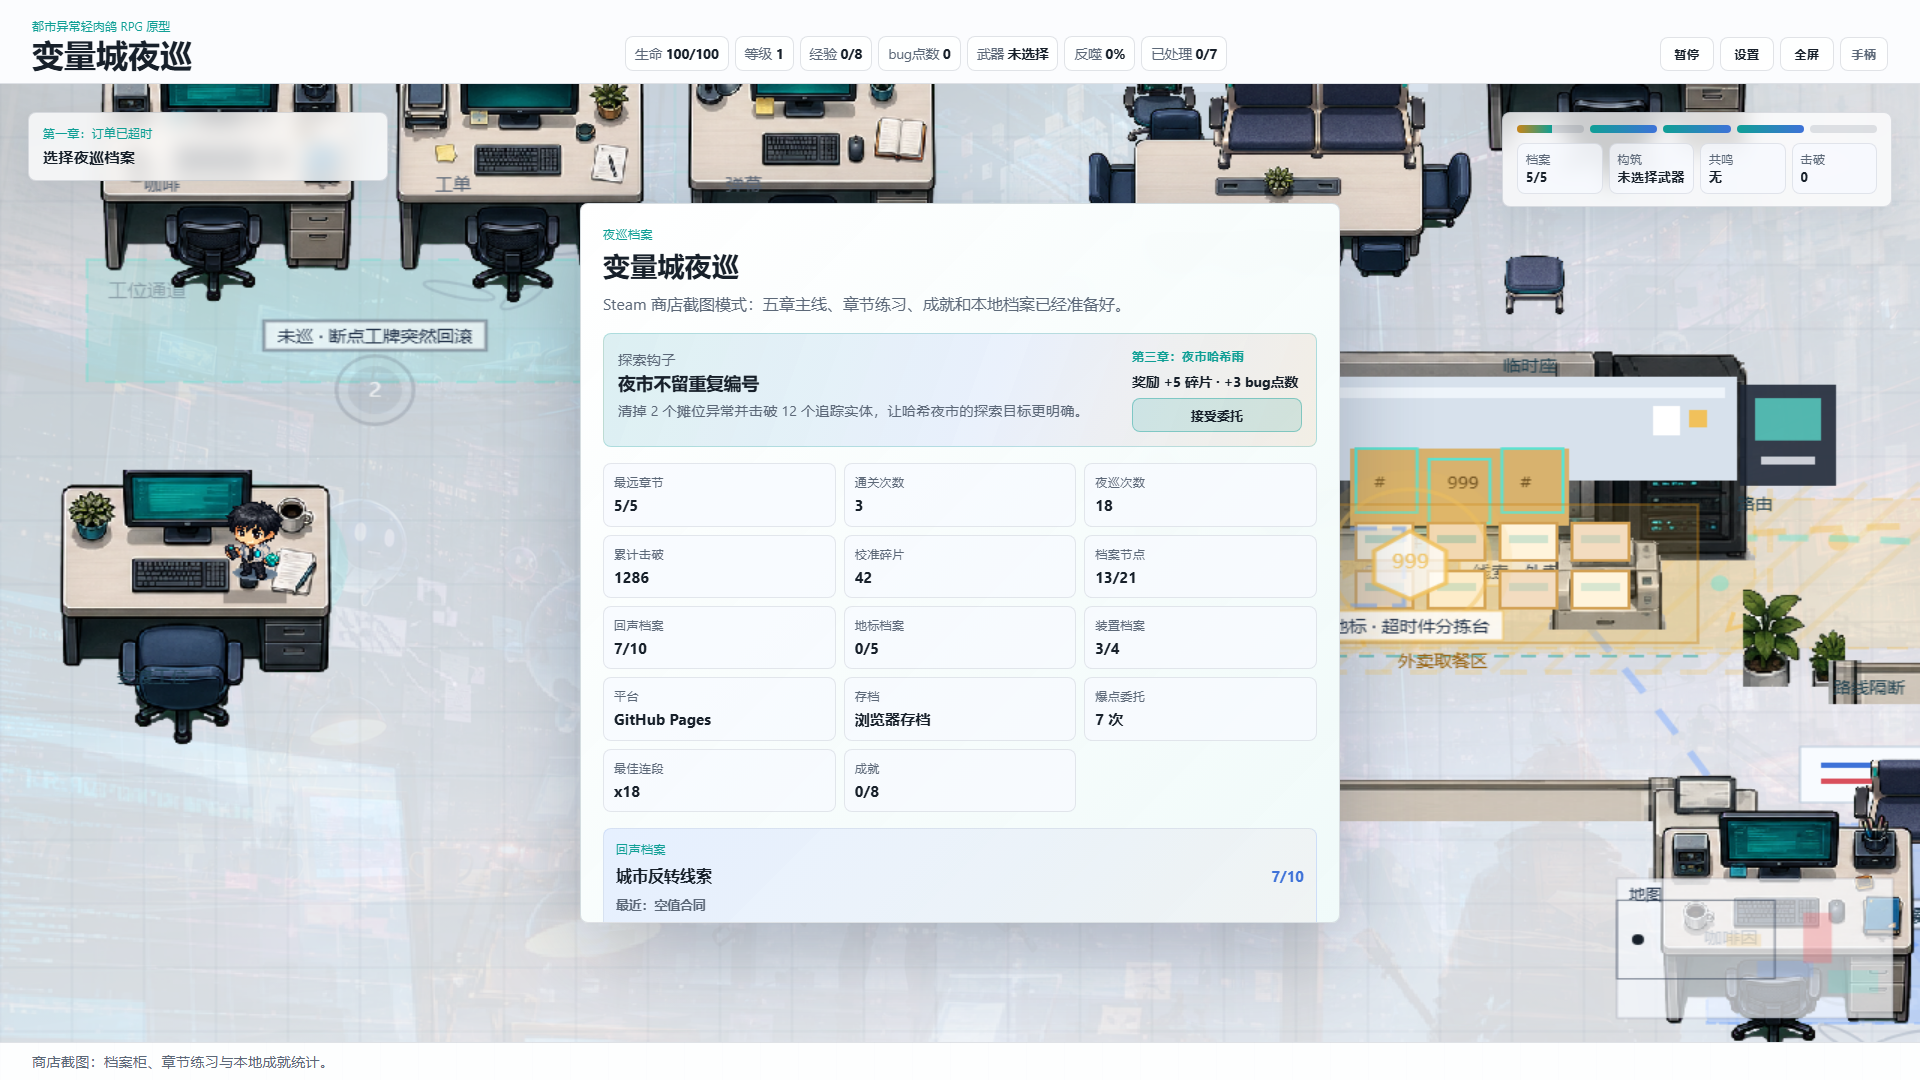
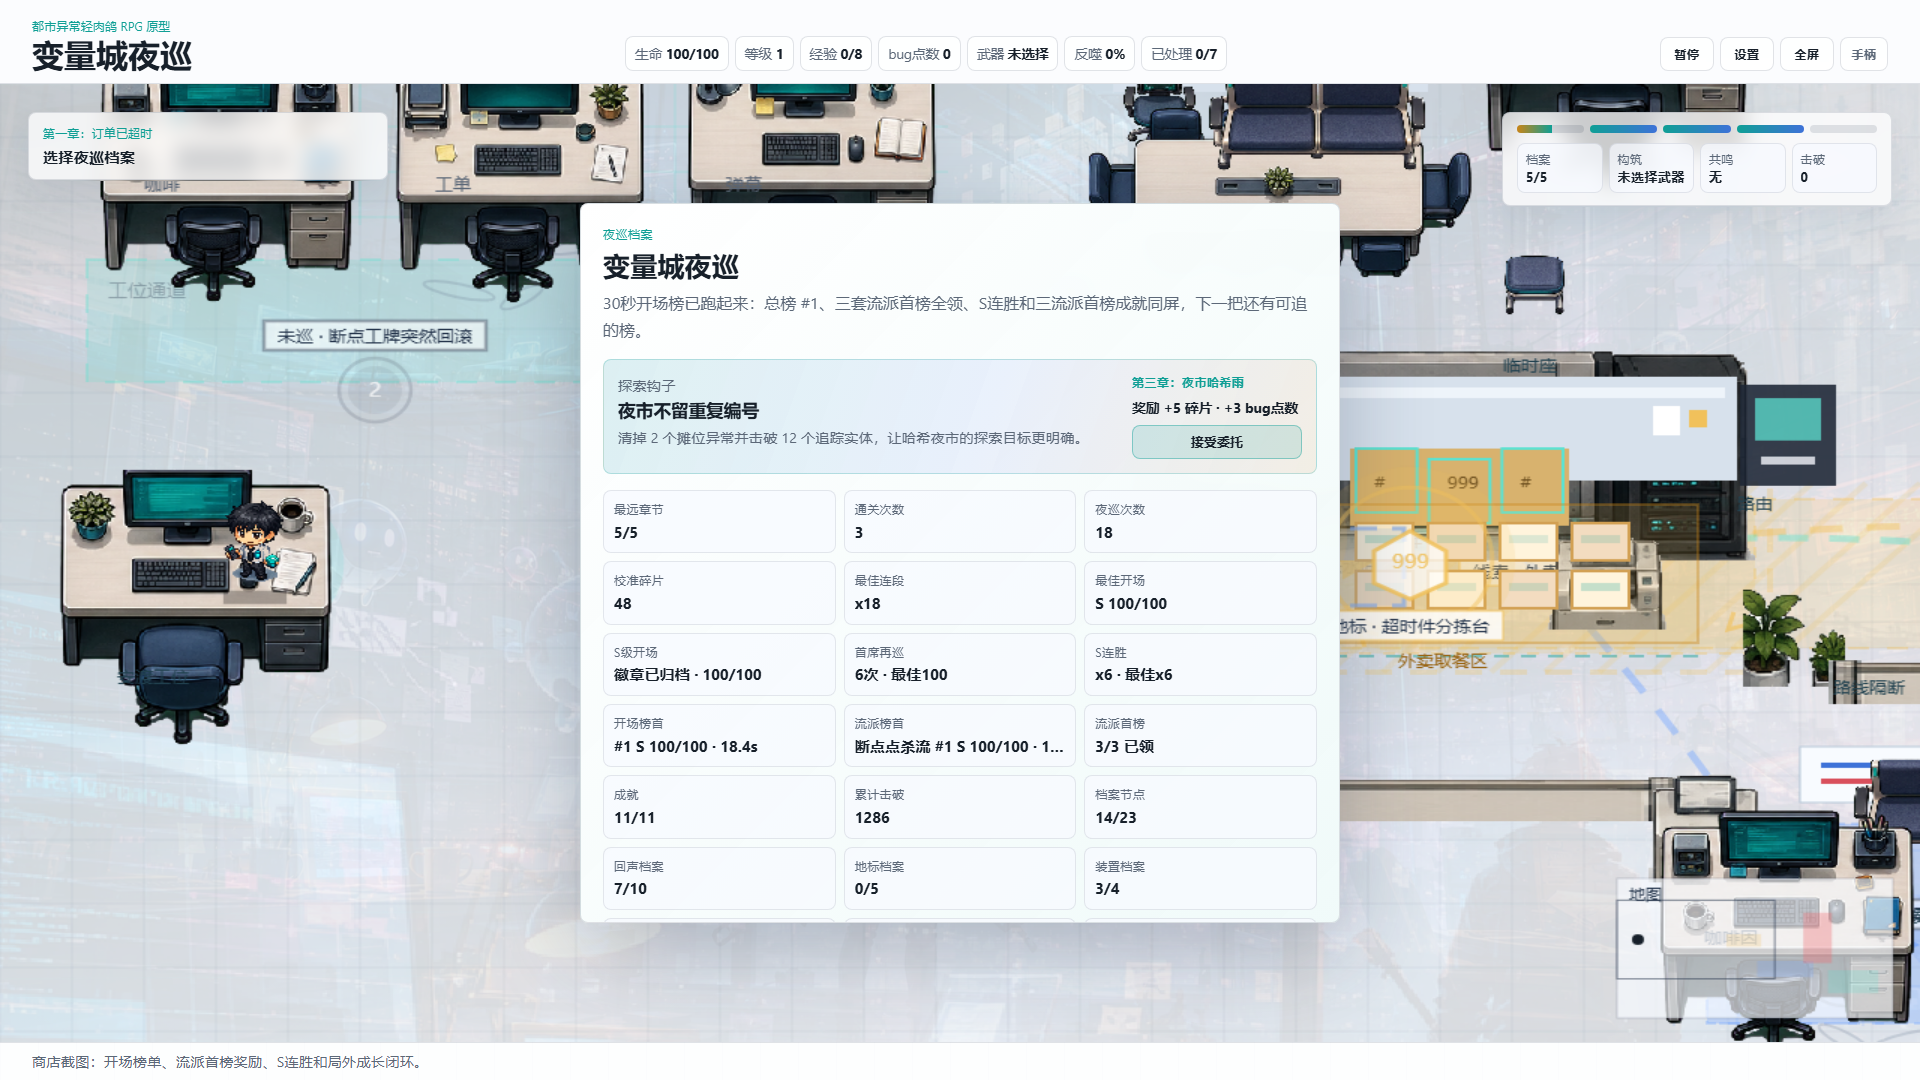
Add leaderboard store screenshot route

diff --git a/src/main.js b/src/main.js
@@ -5745,6 +5745,100 @@ function createStoreArchiveState() {
   };
 }
 
+function createStoreOpeningRushLeaderboardEntry(build, index = 0) {
+  if (!build) {
+    return null;
+  }
+  const scores = [100, 98, 96];
+  const elapsed = [18.4, 21.6, 24.2];
+  return normalizeOpeningRushLeaderboardEntry({
+    id: `store-opening-rush-${build.id}`,
+    score: scores[index] ?? 94,
+    elapsed: elapsed[index] ?? 25,
+    completedIds: ["anomaly", "surge", "first-strike", "overclock", "retry-route"],
+    sourceText: "首异常+28 / 裂隙+30 / 先手+8 / 超频+32 / 路线+10",
+    chiefChallenge: true,
+    starterBuildId: build.id,
+    at: Date.now() - index * 180000,
+  }, index);
+}
+
+function createStoreLeaderboardArchiveState() {
+  const now = Date.now();
+  const entries = starterBuilds
+    .map((build, index) => createStoreOpeningRushLeaderboardEntry(build, index))
+    .filter(Boolean);
+  const openingRushLeaderboard = normalizeOpeningRushLeaderboard(entries);
+  const openingRushBuildLeaderboards = Object.fromEntries(starterBuilds.map((build) => [
+    build.id,
+    normalizeOpeningRushLeaderboard(entries.filter((entry) => entry.starterBuildId === build.id), 3),
+  ]));
+  const topEntry = openingRushLeaderboard[0] ?? null;
+  const lastBuildEntry = openingRushBuildLeaderboards[starterBuilds.at(-1)?.id]?.[0]
+    ?? openingRushBuildLeaderboards[starterBuilds[0]?.id]?.[0]
+    ?? topEntry;
+
+  return {
+    ...createStoreArchiveState(),
+    calibrationShards: 48,
+    totalCalibrationEarned: 182,
+    bestOpeningRushScore: topEntry?.score ?? 100,
+    bestOpeningRushGrade: "S",
+    bestOpeningRushAt: now,
+    openingRushSBadgeUnlocked: true,
+    openingRushSBadgeAt: now,
+    openingRushSBadgeScore: topEntry?.score ?? 100,
+    lastOpeningRush: normalizeOpeningRushArchive(topEntry),
+    chiefOpeningChallengeCompletions: 6,
+    bestChiefOpeningChallengeScore: topEntry?.score ?? 100,
+    lastChiefOpeningChallengeReward: normalizeChiefOpeningChallengeReward({
+      amount: openingRushConfig.chiefChallengeRewardShards,
+      score: topEntry?.score ?? 100,
+      grade: "S",
+      completionCount: 6,
+      reason: "首席再巡挑战",
+      at: now,
+    }),
+    openingRushSStreak: 6,
+    bestOpeningRushSStreak: 6,
+    lastOpeningRushStreakReward: normalizeOpeningRushStreakReward({
+      amount: openingRushConfig.sStreakRewardShards,
+      streak: 6,
+      score: topEntry?.score ?? 100,
+      grade: "S",
+      reason: "开场S连胜",
+      at: now,
+    }),
+    openingRushLeaderboard,
+    lastOpeningRushLeaderboardEntry: topEntry,
+    openingRushBuildLeaderboards,
+    lastOpeningRushBuildLeaderboardEntry: lastBuildEntry,
+    completedOpeningRushBuildLeaderboardRewards: starterBuilds.map((build) => build.id),
+    lastOpeningRushBuildLeaderboardReward: normalizeOpeningRushBuildLeaderboardReward({
+      amount: openingRushConfig.buildLeaderboardRewardShards,
+      starterBuildId: lastBuildEntry?.starterBuildId ?? starterBuilds[0]?.id,
+      score: lastBuildEntry?.score ?? 96,
+      grade: "S",
+      rank: 1,
+      reason: "流派首榜",
+      at: now,
+    }),
+    lastRunShardGain: {
+      amount: openingRushConfig.sStreakRewardShards + openingRushConfig.buildLeaderboardRewardShards,
+      reason: "S连胜 + 三流派首榜",
+      at: now,
+    },
+  };
+}
+
+function writeStoreShotAchievements(ids = achievements.map((achievement) => achievement.steamApiName ?? achievement.id)) {
+  try {
+    writePlatformJson(ACHIEVEMENT_STORAGE_KEY, ids.filter(Boolean));
+  } catch {
+    // Store screenshot profiles are disposable; a failed write should not block capture.
+  }
+}
+
 function resetStoreRun(chapterIndex = 0, options = {}) {
   archiveState = createStoreArchiveState();
   runStats = {
@@ -6006,6 +6100,16 @@ function configureStoreShotMode() {
     openStartMenu();
     ui.startSummary.textContent = "Steam 商店截图模式：五章主线、章节练习、成就和本地档案已经准备好。";
     setLog("商店截图：档案柜、章节练习与本地成就统计。");
+    window.__variableCityStoreShotReady = true;
+    return;
+  }
+
+  if (storeShotMode === "leaderboard") {
+    archiveState = createStoreLeaderboardArchiveState();
+    writeStoreShotAchievements();
+    openStartMenu();
+    ui.startSummary.textContent = "30秒开场榜已跑起来：总榜 #1、三套流派首榜全领、S连胜和三流派首榜成就同屏，下一把还有可追的榜。";
+    setLog("商店截图：开场榜单、流派首榜奖励、S连胜和局外成长闭环。");
     window.__variableCityStoreShotReady = true;
     return;
   }
@@ -7312,15 +7416,7 @@ function renderStartMenu(options = {}) {
     ["最远章节", `${bestChapter}/${chapters.length}`],
     ["通关次数", `${archiveState.wins ?? 0}`],
     ["夜巡次数", `${archiveState.runs ?? 0}`],
-    ["累计击破", `${archiveState.totalEnemiesDefeated ?? 0}`],
     ["校准碎片", `${archiveState.calibrationShards ?? 0}`],
-    ["档案节点", `${metaProgressNodes.reduce((sum, node) => sum + getMetaLevel(node.id), 0)}/${metaProgressNodes.reduce((sum, node) => sum + node.maxLevel, 0)}`],
-    ["回声档案", `${echoSummary.discovered}/${echoSummary.total}`],
-    ["地标档案", `${cacheSummary.discovered}/${cacheSummary.total}`],
-    ["装置档案", `${interactiveSummary.activated}/${interactiveSummary.total}`],
-    ["平台", getPlatformDisplayLabel()],
-    ["存档", getStorageDisplayLabel()],
-    ["爆点委托", `${archiveState.nightHookCompletions ?? 0} 次`],
     ["最佳连段", `x${archiveState.bestTempoStreak ?? 0}`],
     ["最佳开场", formatOpeningRushArchiveBest(archiveState)],
     ["S级开场", formatOpeningRushSBadge(archiveState)],
@@ -7330,6 +7426,14 @@ function renderStartMenu(options = {}) {
     ["流派榜首", formatOpeningRushBuildLeaderboardTop(archiveState)],
     ["流派首榜", formatOpeningRushBuildRewardProgress(archiveState)],
     ["成就", `${readUnlockedAchievements().length}/${achievements.length}`],
+    ["累计击破", `${archiveState.totalEnemiesDefeated ?? 0}`],
+    ["档案节点", `${metaProgressNodes.reduce((sum, node) => sum + getMetaLevel(node.id), 0)}/${metaProgressNodes.reduce((sum, node) => sum + node.maxLevel, 0)}`],
+    ["回声档案", `${echoSummary.discovered}/${echoSummary.total}`],
+    ["地标档案", `${cacheSummary.discovered}/${cacheSummary.total}`],
+    ["装置档案", `${interactiveSummary.activated}/${interactiveSummary.total}`],
+    ["平台", getPlatformDisplayLabel()],
+    ["存档", getStorageDisplayLabel()],
+    ["爆点委托", `${archiveState.nightHookCompletions ?? 0} 次`],
   ];
   ui.startStats.innerHTML = "";
   for (const [label, value] of stats) {

diff --git a/docs/steam-release-plan.md b/docs/steam-release-plan.md
@@ -163,4 +163,5 @@
 - [x] 将开场榜扩展为推荐流派专属榜：每次开场评级会记录所用推荐流派，总榜保留 Top 5，每个流派单独保留 Top 3；开始页、推荐流派卡、结算统计和复盘卡都会显示流派榜首，首席挑战探针验证“键盘弹幕流”入榜。
 - [x] 增加推荐流派首榜奖励：每个推荐流派首次以 S 级登上自己的 #1 会一次性获得 `+1 校准碎片`，档案记录 0/3-3/3 进度；开始页、流派卡、结算统计和复盘卡都显示奖励状态，首席挑战探针验证“键盘弹幕流”奖励已领。
 - [x] 增加三流派全首榜成就：三套推荐流派都以 S 级开场登上各自 #1 后解锁 `ACH_ALL_BUILD_FIRSTS / 三流派首榜`，Steam 草案、成就文档和新路线探针同步验证 2/3 -> 3/3 的解锁链。
-- [ ] 下一轮继续观察榜单传播闭环：把“开场榜首 + 流派榜首 + 首榜奖励 + S连胜 + 三流派首榜成就”做成商店截图里的榜单卖点。
+- [x] 把“开场榜首 + 流派榜首 + 首榜奖励 + S连胜 + 三流派首榜成就”做成商店截图里的榜单卖点：新增 `storeShot=leaderboard` 捕获路由，第 1 张 Steam 截图改为开场总榜、三套流派首榜、首榜奖励全领、S 连胜和成就计数同屏的局外成长证明图，并重新导出 PNG/contact sheet。
+- [ ] 下一轮继续观察榜单截图的一眼可读性：如果 contact sheet 中第 9 张还不够抓眼，就把榜单闭环做成更短的动态预告或商店宣传图版式。

diff --git a/docs/steam-store-assets.md b/docs/steam-store-assets.md
@@ -90,7 +90,7 @@ npm run capture:store-screenshots -- screenshot_07_metro_combat_showcase
 
 输出文件：
 
-- `desktop/steam/store-assets/screenshots/01-start-menu.png`
+- `desktop/steam/store-assets/screenshots/01-start-menu.png`：开场榜单、三套流派首榜、首榜奖励与 S 连胜局外成长截图，来自 `storeShot=leaderboard`。
 - `desktop/steam/store-assets/screenshots/02-office-map.png`
 - `desktop/steam/store-assets/screenshots/03-roguelite-build.png`
 - `desktop/steam/store-assets/screenshots/04-boss-protocol-rider.png`